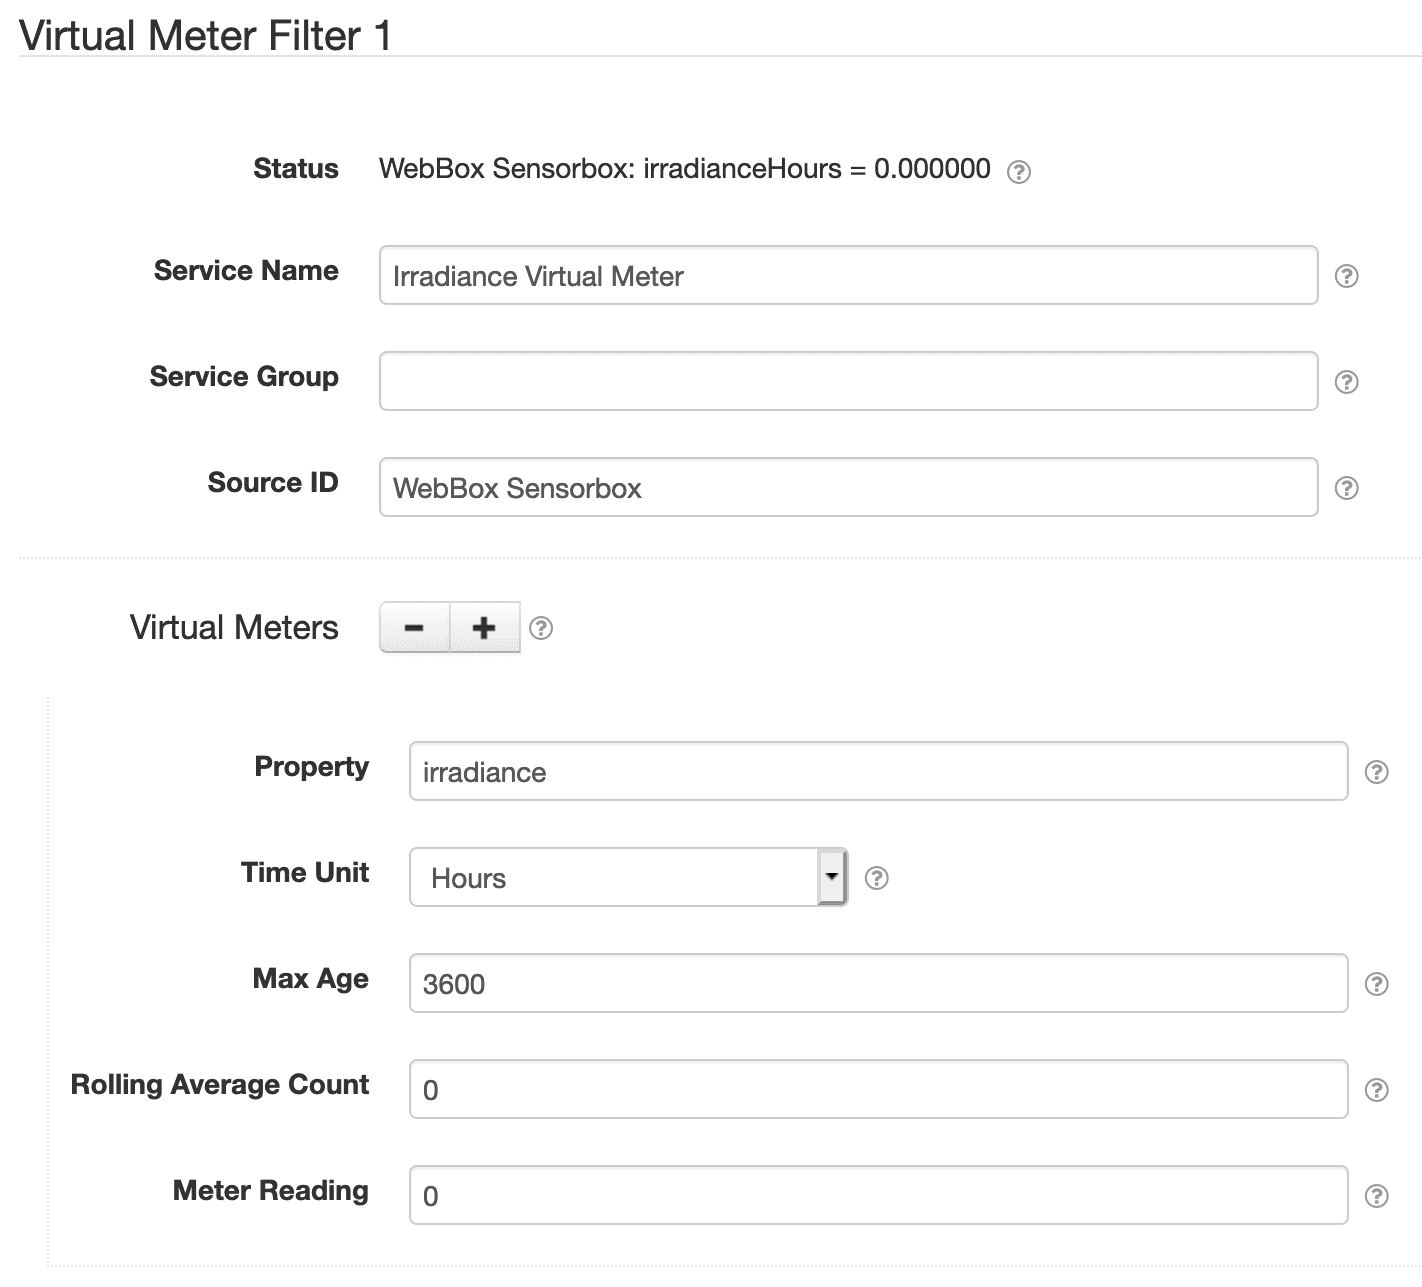
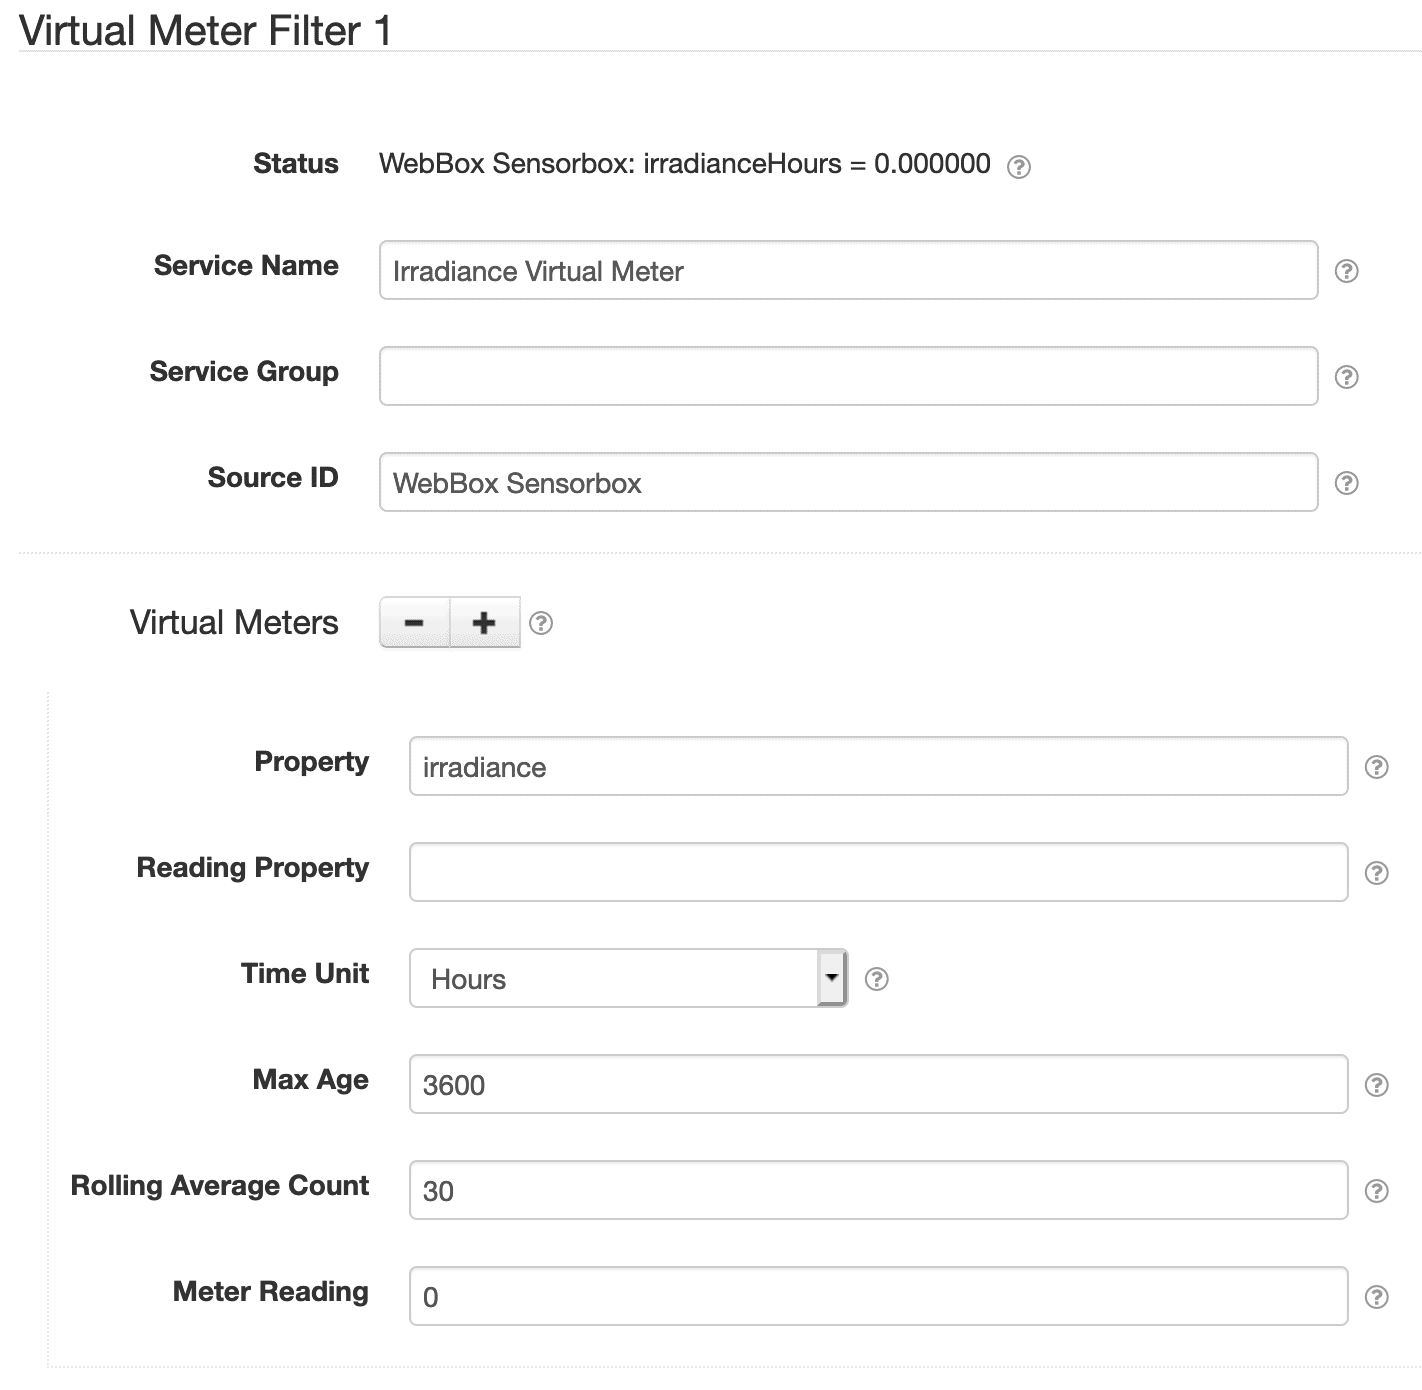
Add support for a custom accumulating property name in Virtual Meter Filter.

diff --git a/net.solarnetwork.node.datum.samplefilter.test/src/net/solarnetwork/node/datum/samplefilter/test/VirtualMeterSamplesTransformerTests.java b/net.solarnetwork.node.datum.samplefilter.test/src/net/solarnetwork/node/datum/samplefilter/test/VirtualMeterSamplesTransformerTests.java
@@ -100,14 +100,18 @@ public class VirtualMeterSamplesTransformerTests {
 
 	private void assertOutputValue(String msg, GeneralDatumSamples result, BigDecimal expectedValue,
 			BigDecimal expectedDerived) {
-		assertThat("Prop value " + msg, result.getInstantaneousSampleDouble(PROP_WATTS),
+		assertOutputValue(msg, result, PROP_WATTS, PROP_WATTS_SECONDS, expectedValue, expectedDerived);
+	}
+
+	private void assertOutputValue(String msg, GeneralDatumSamples result, String propName,
+			String readingPropName, BigDecimal expectedValue, BigDecimal expectedDerived) {
+		assertThat("Prop value " + msg, result.getInstantaneousSampleDouble(propName),
 				closeTo(expectedValue.doubleValue(), 0.1));
 		if ( expectedDerived == null ) {
 			assertThat("Meter value not available " + msg,
-					result.getAccumulatingSampleDouble(PROP_WATTS_SECONDS), nullValue());
+					result.getAccumulatingSampleDouble(readingPropName), nullValue());
 		} else {
-			assertThat("Meter value approx " + msg,
-					result.getAccumulatingSampleDouble(PROP_WATTS_SECONDS),
+			assertThat("Meter value approx " + msg, result.getAccumulatingSampleDouble(readingPropName),
 					closeTo(expectedDerived.doubleValue(), 1.0));
 		}
 
@@ -115,12 +119,19 @@ public class VirtualMeterSamplesTransformerTests {
 
 	private void assertVirtalMeterMetadata(String msg, GeneralDatumMetadata meta, long date,
 			BigDecimal expectedValue, BigDecimal expectedReading) {
-		assertThat("Virtual meter date saved (close to) " + msg, meta.getInfoLong(PROP_WATTS_SECONDS,
-				VirtualMeterSamplesTransformer.VIRTUAL_METER_DATE_KEY) - date, lessThan(2000L));
-		assertThat("Virtual meter value saved " + msg, meta.getInfoBigDecimal(PROP_WATTS_SECONDS,
+		assertVirtalMeterMetadata(msg, meta, PROP_WATTS_SECONDS, date, expectedValue, expectedReading);
+	}
+
+	private void assertVirtalMeterMetadata(String msg, GeneralDatumMetadata meta, String readingPropName,
+			long date, BigDecimal expectedValue, BigDecimal expectedReading) {
+		assertThat("Virtual meter date saved (close to) " + msg,
+				meta.getInfoLong(readingPropName, VirtualMeterSamplesTransformer.VIRTUAL_METER_DATE_KEY)
+						- date,
+				lessThan(2000L));
+		assertThat("Virtual meter value saved " + msg, meta.getInfoBigDecimal(readingPropName,
 				VirtualMeterSamplesTransformer.VIRTUAL_METER_VALUE_KEY), equalTo(expectedValue));
 		assertThat("Virtual meter reading saved " + msg,
-				meta.getInfoBigDecimal(PROP_WATTS_SECONDS,
+				meta.getInfoBigDecimal(readingPropName,
 						VirtualMeterSamplesTransformer.VIRTUAL_METER_READING_KEY),
 				equalTo(expectedReading));
 	}
@@ -150,6 +161,34 @@ public class VirtualMeterSamplesTransformerTests {
 		GeneralDatumMetadata meta = metaCaptor.getValue();
 		assertVirtalMeterMetadata("first", meta, System.currentTimeMillis(), new BigDecimal("23.4"),
 				BigDecimal.ZERO);
+	}
+
+	@Test
+	public void filter_rollingAverage_firstSample_customReadingPropertyName() {
+		// GIVEN
+		final GeneralNodeDatum datum = createTestGeneralNodeDatum(SOURCE_ID);
+		final VirtualMeterConfig vmConfig = createTestVirtualMeterConfig(PROP_WATTS);
+		vmConfig.setRollingAverageCount(4);
+		vmConfig.setReadingPropertyName("foobar");
+		xform.setVirtualMeterConfigs(new VirtualMeterConfig[] { vmConfig });
+
+		// no metadata available yet
+		expect(datumMetadataService.getSourceMetadata(SOURCE_ID)).andReturn(null);
+
+		// add metadata
+		Capture<GeneralDatumMetadata> metaCaptor = new Capture<>();
+		datumMetadataService.addSourceMetadata(eq(SOURCE_ID), capture(metaCaptor));
+
+		// WHEN
+		replayAll();
+		GeneralDatumSamples result = xform.transformSamples(datum, datum.getSamples(), null);
+
+		// THEN
+		assertOutputValue("at first sample", result, PROP_WATTS, "foobar", new BigDecimal("23.4"), null);
+
+		GeneralDatumMetadata meta = metaCaptor.getValue();
+		assertVirtalMeterMetadata("first", meta, "foobar", System.currentTimeMillis(),
+				new BigDecimal("23.4"), BigDecimal.ZERO);
 	}
 
 	@Test

diff --git a/net.solarnetwork.node/src/net/solarnetwork/node/domain/VirtualMeterConfig.java b/net.solarnetwork.node/src/net/solarnetwork/node/domain/VirtualMeterConfig.java
@@ -50,12 +50,14 @@ public class VirtualMeterConfig extends GeneralDatumSamplePropertyConfig<BigInte
 	private TimeUnit timeUnit = TimeUnit.HOURS;
 	private long maxAgeSeconds = TimeUnit.HOURS.toSeconds(1);
 	private int rollingAverageCount = 0;
+	private String readingPropertyName = null;
 
 	public static List<SettingSpecifier> settings(String prefix, String meterReading) {
 		VirtualMeterConfig defaults = new VirtualMeterConfig();
 		List<SettingSpecifier> results = new ArrayList<SettingSpecifier>();
 
 		results.add(new BasicTextFieldSettingSpecifier(prefix + "name", ""));
+		results.add(new BasicTextFieldSettingSpecifier(prefix + "readingPropertyName", null));
 
 		// drop-down menu for timeUnit
 		BasicMultiValueSettingSpecifier timeUnitSpec = new BasicMultiValueSettingSpecifier(
@@ -78,6 +80,30 @@ public class VirtualMeterConfig extends GeneralDatumSamplePropertyConfig<BigInte
 		results.add(new BasicTextFieldSettingSpecifier(prefix + "meterReading", meterReading));
 
 		return results;
+	}
+
+	/**
+	 * Get the reading property name to use.
+	 * 
+	 * <p>
+	 * This will return {@link #getReadingPropertyName()} if not empty.
+	 * Otherwise a name derived from {@link #getPropertyKey() with
+	 * {@link #getTimeUnit()} appended will be used. The time unit will be
+	 * formatted as a capitalized word, for example {@link TimeUnit#HOURS}
+	 * becomes {@literal Hours}.
+	 * </p>
+	 * 
+	 * @return the reading property name to use
+	 * @since 1.1
+	 */
+	public String readingPropertyName() {
+		String name = getReadingPropertyName();
+		if ( name == null || name.isEmpty() ) {
+			TimeUnit timeUnit = getTimeUnit();
+			String tuName = timeUnit.name().substring(0, 1) + timeUnit.name().substring(1).toLowerCase();
+			name = getPropertyKey() + tuName;
+		}
+		return name;
 	}
 
 	/**
@@ -268,6 +294,27 @@ public class VirtualMeterConfig extends GeneralDatumSamplePropertyConfig<BigInte
 	 */
 	public void setRollingAverageCount(int rollingAverageCount) {
 		this.rollingAverageCount = rollingAverageCount;
+	}
+
+	/**
+	 * Get the accumulating property name to use.
+	 * 
+	 * @return the name, or {@literal null} to use a standard name
+	 * @since 1.1
+	 */
+	public String getReadingPropertyName() {
+		return readingPropertyName;
+	}
+
+	/**
+	 * Set the accumulating property name to use.
+	 * 
+	 * @param readingPropertyName
+	 *        the name to set, or {@literal null} to use a standard name
+	 * @since 1.1
+	 */
+	public void setReadingPropertyName(String readingPropertyName) {
+		this.readingPropertyName = readingPropertyName;
 	}
 
 }

diff --git a/net.solarnetwork.node.datum.samplefilter/src/net/solarnetwork/node/datum/samplefilter/VirtualMeterSamplesTransformer.java b/net.solarnetwork.node.datum.samplefilter/src/net/solarnetwork/node/datum/samplefilter/VirtualMeterSamplesTransformer.java
@@ -232,9 +232,8 @@ public class VirtualMeterSamplesTransformer extends BaseIdentifiable
 					|| config.getTimeUnit() == null ) {
 				continue;
 			}
-			TimeUnit timeUnit = config.getTimeUnit();
-			String tuName = timeUnit.name().substring(0, 1) + timeUnit.name().substring(1).toLowerCase();
-			String meterPropName = config.getPropertyKey() + tuName;
+			final TimeUnit timeUnit = config.getTimeUnit();
+			final String meterPropName = config.readingPropertyName();
 			if ( samples.hasSampleValue(GeneralDatumSamplesType.Accumulating, meterPropName) ) {
 				// accumulating value exists for this property already, do not overwrite
 				log.warn(

diff --git a/net.solarnetwork.node.datum.samplefilter/README.md b/net.solarnetwork.node.datum.samplefilter/README.md
@@ -161,6 +161,7 @@ Each virtual meter configuration contains the following settings:
 | Setting               | Description                                                                           |
 |:----------------------|:--------------------------------------------------------------------------------------|
 | Property              | The name of the instantaneous datum property to derive the virtual meter values from. |
+| Reading Property      | The name of the accumulating datum property to generate. Leave empty for a default.   |
 | Time Unit             | The time unit to record meter readings as.                                            |
 | Max Age               | The maximum time allowed between samples where the meter reading can advance.         |
 | Rolling Average Count | A count of samples to average the property value from.                                |
@@ -169,6 +170,11 @@ Each virtual meter configuration contains the following settings:
 ## Virtual meter settings notes
 
 <dl>
+	<dt>Reading Property</dt>
+	<dd>This can be used to customize the generated accumulating datum property name. If left unconfigured,
+	the accumulating datum property will be named after the Property value with the Time Unit suffix appended. 
+	For example, an instantaneous <code>irradiance</code> property using the <code>Hours</code> time unit would 
+	result in an accumulating <code>irradianceHours</code> property.</dd>
 	<dt>Time Unit</dt>
 	<dd>This value affects the name of the virtual meter reading property: it will be appended to the
 	end of the property name. It also affects the virtual meter reading values, as they will be calculated in
